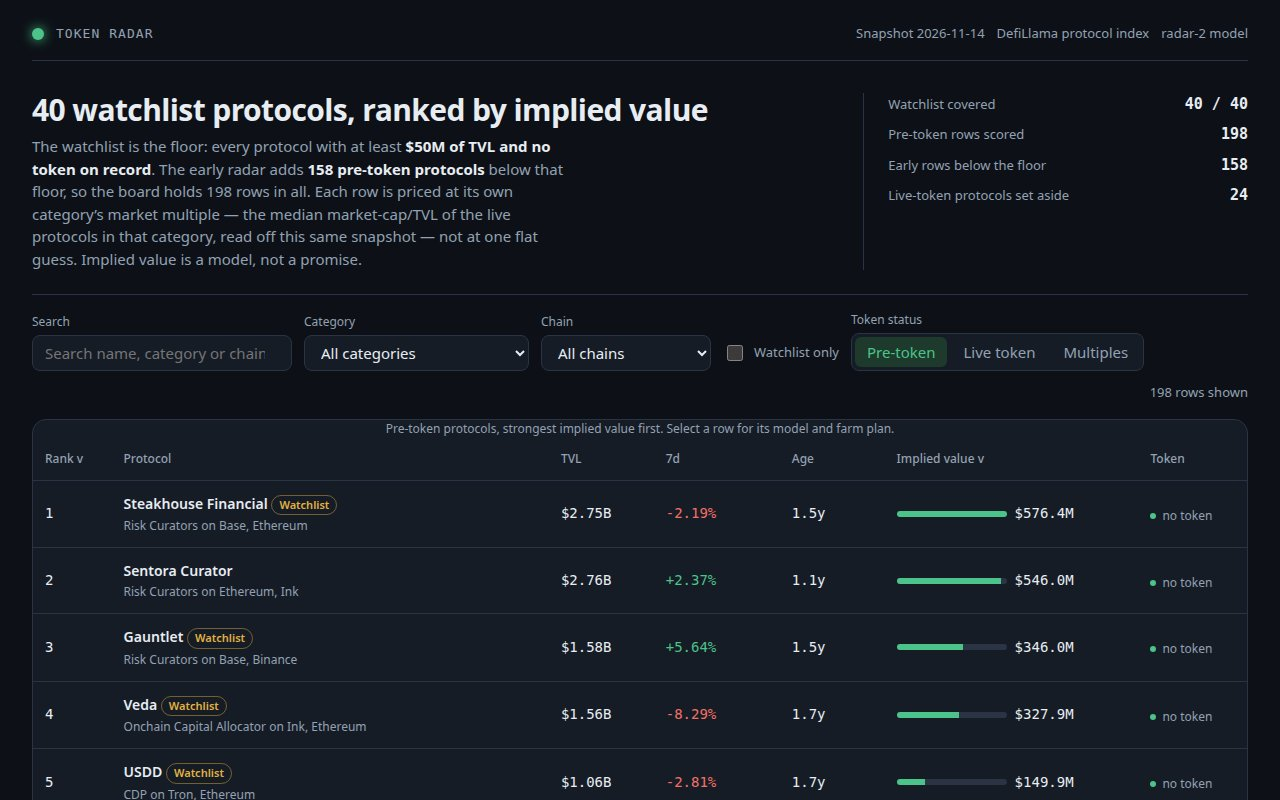
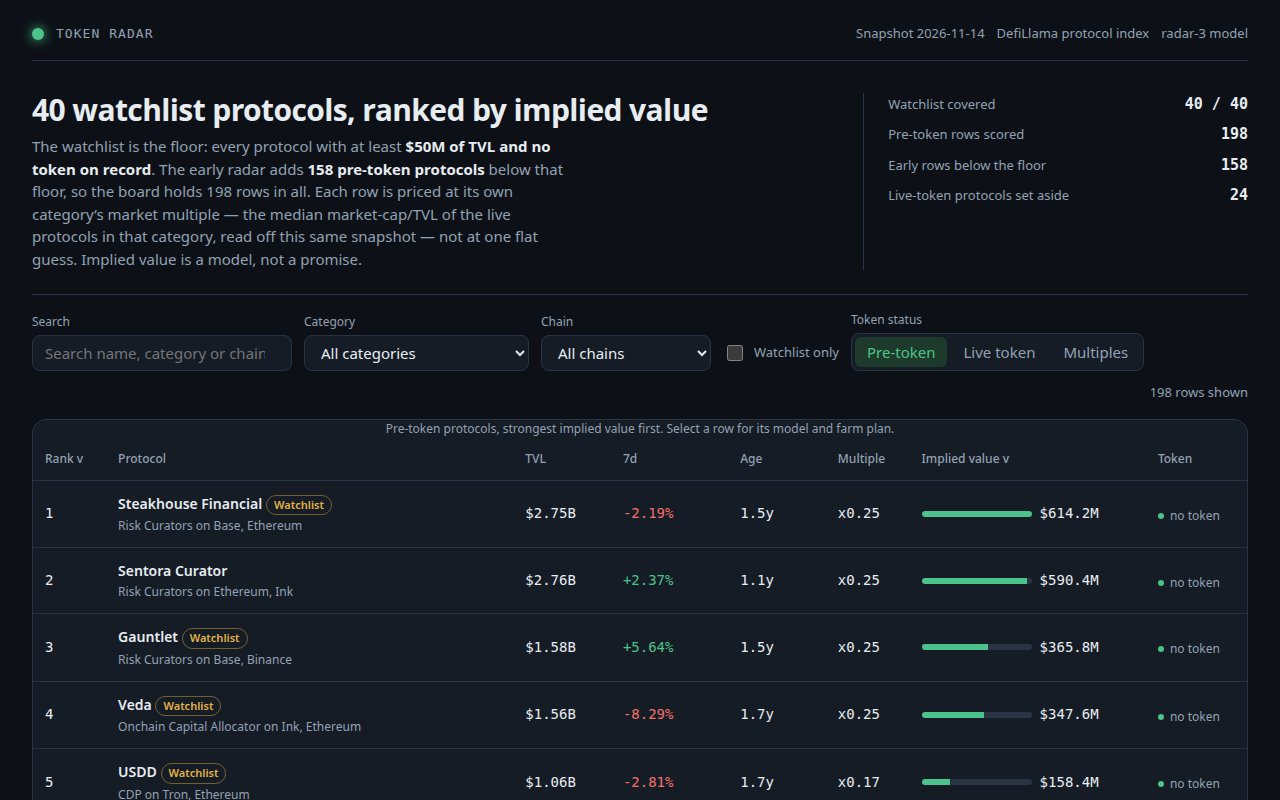
Token Radar (radar-3): damped growth/age, per-protocol watch-out farm step, multiple column + why-this-rank

diff --git a/lib/model.ts b/lib/model.ts
@@ -1,4 +1,4 @@
-// Token Radar's model, radar-2: one sealed snapshot in, one ranked board out.
+// Token Radar's model, radar-3: one sealed snapshot in, one ranked board out.
 //
 // The board ranks every pre-token protocol the snapshot can rank: the whole 40-protocol
 // watchlist plus every other pre-token protocol that passes the watchlist's own rule.
@@ -19,18 +19,29 @@
 // the median live bridge at 0.56x. So each row is scored at its own category's multiple,
 // taken from the live protocols that already trade in that category.
 //
+// radar-3 damps the two noisiest inputs. A single week's TVL move is often one wallet,
+// not a trend, so seven-day growth is clamped to -50..+80 per cent and weighted at 0.5:
+// the growth multiplier now moves implied value by 0.75x to 1.40x, never nearly double.
+// Age is the weakest signal of the four — a protocol that has run three years with no
+// token is established, but no nearer a launch than a younger one — so maturity moves
+// implied value by 0.70x to 1.00x. TVL at the category multiple does the pricing; growth
+// and age only tilt it.
+//
 //   catMultiple = median(mcap_usd / tvl_usd) over live protocols of the same category
 //                 (at least 3 of them, else the global median over all live protocols),
 //                 clamped to [0.05, 1.50]
-//   growth      = clamp(change_7d, -50, 150) per cent; null growth counts as 0
-//   growthMult  = 1 + (growth / 100) x 0.6
-//   maturity    = 0.6 + min(age_days, 1095) / 1095 x 0.4   (age unknown: 365 days)
+//   growth      = clamp(change_7d, -50, 80) per cent; null growth counts as 0
+//   growthMult  = 1 + (growth / 100) x 0.5
+//   maturity    = 0.7 + min(age_days, 1095) / 1095 x 0.3   (age unknown: 365 days)
 //   breadth     = 1 + 0.02 x min(chains - 1, 4)            (multi-chain reach, at most +8%)
 //   implied     = max(1, round(tvl_usd x catMultiple x growthMult x maturity x breadth))
 //
 // Farm plans are derived the same way, from the protocol's own record: its category picks
 // the action, its first chain picks where it happens and what the gas costs, its TVL picks
-// the capital, its age picks the hold. Every step states what it costs and how long it takes.
+// the capital, its age picks the hold. One step is new in radar-3: a watch-out read off
+// the same figures — a falling week, a hot week, a long run with no token, TVL spread
+// over many chains, or a multiple borrowed from the global median — so no two plans are
+// the same where the figures differ. Every step states what it costs and how long it takes.
 
 /** One protocol entry of the sealed snapshot: exactly its ten fields. */
 export interface SnapshotProtocol {
@@ -72,11 +83,11 @@ export interface ModelConstants {
 }
 
 export const MODEL: ModelConstants = {
-  growth_weight: 0.6,
+  growth_weight: 0.5,
   growth_floor: -50,
-  growth_cap: 150,
-  maturity_floor: 0.6,
-  maturity_range: 0.4,
+  growth_cap: 80,
+  maturity_floor: 0.7,
+  maturity_range: 0.3,
   maturity_days: 1095,
   unknown_age_days: 365,
   multiple_floor: 0.05,
@@ -87,7 +98,7 @@ export const MODEL: ModelConstants = {
 };
 
 /** The model's version label: the dashboard names it. */
-export const MODEL_VERSION = 'radar-2';
+export const MODEL_VERSION = 'radar-3';
 
 /** How many live-token protocols the Live view carries, by market cap. */
 export const LIVE_ROWS = 24;
@@ -144,6 +155,7 @@ export interface RadarRow {
   implied_value_usd: number;
   watchlist: boolean;
   category_multiple: number;
+  category_live_n: number;
   growth_multiplier: number;
   maturity_multiplier: number;
   breadth_multiplier: number;
@@ -379,7 +391,7 @@ export function buildBoard(
       breadth_multiplier: round4(s.breadthMult),
       age_days: s.age,
     },
-    farm_steps: farmSteps(s.p, s.age).map(stepText),
+    farm_steps: farmSteps(s.p, s.age, s.growthPct, s.liveN < model.multiple_min_live).map(stepText),
   }));
   return { board, multiples: table, globalMultiple: global };
 }
@@ -458,11 +470,47 @@ function weeklyFor(p: SnapshotProtocol): string {
 }
 
 /**
- * A protocol's farm plan: six steps, each an action with a cost and a time. The plan is
- * derived from the protocol's own record (category, chains, TVL, age), never from a
- * hand-written list of names.
+ * The watch-out: one caution read off the protocol's own figures, so a plan is never
+ * the same where the figures differ. The strongest signal wins: a falling week, a hot
+ * week, a long run with no token, TVL spread over many chains, or a multiple borrowed
+ * from the global median because its category has too few live protocols to price it.
  */
-export function farmSteps(p: SnapshotProtocol, age: number | null): FarmStep[] {
+export function watchOut(
+  p: SnapshotProtocol,
+  age: number | null,
+  growthPct: number,
+  fromGlobal: boolean,
+): string {
+  if (growthPct <= -10) {
+    return `TVL fell ${Math.abs(growthPct).toFixed(1)}% in the last week — check whether one wallet left before you add capital; a falling base earns fewer points per dollar.`;
+  }
+  if (growthPct >= 50) {
+    return `TVL jumped ${growthPct.toFixed(1)}% in one week — confirm the deposits stick for a second week before sizing up; one hot week is often one wallet.`;
+  }
+  if (age !== null && age >= 1095) {
+    return `It has run ${Math.floor(age / 365)} years with no token on record — a launch is less certain than for a younger protocol, so keep this farm small.`;
+  }
+  if (p.chains.length >= 4) {
+    return `TVL sits on ${p.chains.length} chains — farm on ${chainOf(p)}, where the deepest pool is, and skip the thin ones.`;
+  }
+  if (fromGlobal) {
+    return `Its category has fewer than 3 live protocols, so its multiple is the global median — treat the implied value as a rough guide, not a price.`;
+  }
+  return `Re-check the 7-day growth before each weekly action: a turn in the trend is the first sign the farm is cooling.`;
+}
+
+/**
+ * A protocol's farm plan: seven steps, each an action with a cost and a time. The plan is
+ * derived from the protocol's own record (category, chains, TVL, age, growth, and whether
+ * its multiple is its category's own or the global median), never from a hand-written
+ * list of names. The DefiLlama page in step six follows from the slug alone.
+ */
+export function farmSteps(
+  p: SnapshotProtocol,
+  age: number | null,
+  growthPct = 0,
+  fromGlobal = false,
+): FarmStep[] {
   const chain = chainOf(p);
   const capital = capitalFor(p);
   const hold = holdDaysFor(age);
@@ -491,7 +539,12 @@ export function farmSteps(p: SnapshotProtocol, age: number | null): FarmStep[] {
       time: `${hold} days`,
     },
     {
-      text: `Before you withdraw, open the protocol's own points or rewards page and claim only from the link it publishes.`,
+      text: watchOut(p, age, growthPct, fromGlobal),
+      cost: 'nothing to check, and it decides the size',
+      time: '10 minutes',
+    },
+    {
+      text: `Before you withdraw, open the protocol's own points or rewards page — start from its DefiLlama page at defillama.com/protocol/${p.slug} — and claim only from a link the protocol itself publishes.`,
       cost: 'no fee to check, and never pay to claim',
       time: '10 minutes',
     },
@@ -536,6 +589,7 @@ export function radarRow(row: BoardRow): RadarRow {
     implied_value_usd: row.implied_value_usd,
     watchlist: row.watchlist,
     category_multiple: row.model.category_multiple_raw,
+    category_live_n: row.model.category_live_n,
     growth_multiplier: row.model.growth_multiplier,
     maturity_multiplier: row.model.maturity_multiplier,
     breadth_multiplier: row.model.breadth_multiplier,

diff --git a/dashboard/app.js b/dashboard/app.js
@@ -1,4 +1,4 @@
-// Token Radar's dashboard (radar-2). It reads window.RADAR (written beside dashboard/
+// Token Radar's dashboard (radar-3). It reads window.RADAR (written beside dashboard/
 // by main.ts) and renders the ranked board, a filterable table, a per-protocol detail
 // view with the model's own inputs and the protocol's farm plan, a live-token view, and
 // the table of category multiples the model is priced from. No network: every byte it
@@ -104,17 +104,29 @@
     if (s.length < 20) s = s + " Hold the position and check the protocol's own page.";
     return s;
   }
+  function watchOut(p, growthPct, fromGlobal) {
+    var age = p.age_days === null || p.age_days === undefined ? null : p.age_days;
+    if (growthPct <= -10) return 'TVL fell ' + Math.abs(growthPct).toFixed(1) + '% in the last week — check whether one wallet left before you add capital; a falling base earns fewer points per dollar.';
+    if (growthPct >= 50) return 'TVL jumped ' + growthPct.toFixed(1) + '% in one week — confirm the deposits stick for a second week before sizing up; one hot week is often one wallet.';
+    if (age !== null && age >= 1095) return 'It has run ' + Math.floor(age / 365) + ' years with no token on record — a launch is less certain than for a younger protocol, so keep this farm small.';
+    if (p.chains && p.chains.length >= 4) return 'TVL sits on ' + p.chains.length + ' chains — farm on ' + chainOf(p) + ', where the deepest pool is, and skip the thin ones.';
+    if (fromGlobal) return 'Its category has fewer than 3 live protocols, so its multiple is the global median — treat the implied value as a rough guide, not a price.';
+    return 'Re-check the 7-day growth before each weekly action: a turn in the trend is the first sign the farm is cooling.';
+  }
   function farmSteps(p) {
     var chain = chainOf(p);
     var capital = capitalFor(p);
     var hold = holdDaysFor(p.age_days);
     var gas = gasFor(chain);
+    var growthPct = Math.min(DATA.model.growth_cap, Math.max(DATA.model.growth_floor, p.change_7d === null || p.change_7d === undefined ? 0 : p.change_7d));
+    var fromGlobal = (p.category_live_n === null || p.category_live_n === undefined ? 0 : p.category_live_n) < DATA.model.multiple_min_live;
     return [
       { text: 'Use a fresh wallet that holds only the funds you plan to farm, and keep its seed phrase offline.', cost: 'under $3 of gas for the first transaction', time: '5 minutes' },
       { text: actionFor(p, capital, chain), cost: '$' + capital + ' of capital and ' + gas.setup, time: '15 minutes to set up' },
       { text: 'Make one qualifying action each week, such as ' + weeklyFor(p) + '.', cost: gas.weekly, time: '10 minutes a week' },
       { text: 'Hold the position for at least ' + hold + ' days so the activity is counted in more than one snapshot.', cost: 'the $' + capital + ' stays in the position', time: hold + ' days' },
-      { text: "Before you withdraw, open the protocol's own points or rewards page and claim only from the link it publishes.", cost: 'no fee to check, and never pay to claim', time: '10 minutes' },
+      { text: watchOut(p, growthPct, fromGlobal), cost: 'nothing to check, and it decides the size', time: '10 minutes' },
+      { text: "Before you withdraw, open the protocol's own points or rewards page — start from its DefiLlama page at defillama.com/protocol/" + p.slug + ' — and claim only from a link the protocol itself publishes.', cost: 'no fee to check, and never pay to claim', time: '10 minutes' },
       { text: 'Write the wallet, the dates and every transaction in a farm log so you can repeat the position or unwind it.', cost: 'nothing but the log', time: '5 minutes' }
     ].map(stepText);
   }
@@ -162,6 +174,7 @@
       else if (key === 'tvl') { av = a.tvl_usd; bv = b.tvl_usd; }
       else if (key === 'growth') { av = a.change_7d === null ? -Infinity : a.change_7d; bv = b.change_7d === null ? -Infinity : b.change_7d; }
       else if (key === 'age') { av = a.age_days === null ? Infinity : a.age_days; bv = b.age_days === null ? Infinity : b.age_days; }
+      else if (key === 'multiple') { av = a.category_multiple; bv = b.category_multiple; }
       else { av = a.implied_value_usd; bv = b.implied_value_usd; }
       if (av < bv) return -state.dir;
       if (av > bv) return state.dir;
@@ -236,6 +249,7 @@
         '<td class="num">' + fmtUsd(r.tvl_usd) + '</td>' +
         '<td class="num ' + growthClass + '">' + growth + '</td>' +
         '<td class="num">' + fmtAge(r.age_days) + '</td>' +
+        '<td class="num">' + fmtMult(r.category_multiple) + '</td>' +
         '<td><div class="implied"><div class="bar" aria-hidden="true"><i style="width:' + Math.max(3, Math.round((r.implied_value_usd / max) * 100)) + '%"></i></div>' +
         '<span class="num">' + fmtUsd(r.implied_value_usd) + '</span></div></td>' +
         '<td><span class="status">no token</span></td></tr>';
@@ -244,7 +258,7 @@
       '<caption class="sub">Pre-token protocols, strongest implied value first. Select a row for its model and farm plan.</caption>' +
       '<thead><tr><th scope="col">' + sortBtn('implied', 'Rank') + '</th><th scope="col">' + sortBtn('name', 'Protocol') + '</th>' +
       '<th scope="col">' + sortBtn('tvl', 'TVL') + '</th><th scope="col">' + sortBtn('growth', '7d') + '</th>' +
-      '<th scope="col">' + sortBtn('age', 'Age') + '</th><th scope="col">' + sortBtn('implied', 'Implied value') + '</th><th scope="col">Token</th></tr></thead>' +
+      '<th scope="col">' + sortBtn('age', 'Age') + '</th><th scope="col">' + sortBtn('multiple', 'Multiple') + '</th><th scope="col">' + sortBtn('implied', 'Implied value') + '</th><th scope="col">Token</th></tr></thead>' +
       '<tbody>' + rows + '</tbody></table></div></div>';
   }
 
@@ -324,7 +338,8 @@
       '<div><span>Maturity multiplier</span><b class="num">' + fmtMult(row.maturity_multiplier) + '</b></div>' +
       '<div><span>Chain breadth (' + (row.chains || []).length + ' chains)</span><b class="num">' + fmtMult(row.breadth_multiplier) + '</b></div>' +
       '<div class="total"><span>Implied value</span><b class="num">' + fmtUsd(row.implied_value_usd) + '</b></div>' +
-      '</div><p class="note">Model ' + esc(DATA.model_version) + ': the same function scores every protocol. The page recomputes this row as ' + fmtUsd(recomputed) +
+      '</div><p class="note">Why rank ' + row.rank + ': ' + fmtUsd(row.tvl_usd) + ' of TVL at the ' + esc(row.category || 'Other') + ' multiple of ' + fmtMult(row.category_multiple) + ', with ' + fmtPct(row.change_7d) + ' seven-day growth and ' + fmtAge(row.age_days) + ' with no token on record.</p>' +
+      '<p class="note">Model ' + esc(DATA.model_version) + ': the same function scores every protocol. The page recomputes this row as ' + fmtUsd(recomputed) +
       (match ? ', the same number board.json carries.' : ', which differs from the board: the data would be stale.') +
       ' This is an estimate, not a price. The protocol records no token in the snapshot; that is what the record says, not proof it has none.</p></section>' +
       '<section class="detail-section"><h3>Farm plan</h3><ol class="steps">' + stepsHtml + '</ol>' +

diff --git a/main.ts b/main.ts
@@ -1,7 +1,7 @@
 // A working token-radar-01 entry (Node 22, standard library only).
 //
 // The program reads the sealed snapshot from /input/snapshot.json (or --input <file|dir>),
-// scores every rankable pre-token protocol with the radar-2 model in lib/model.ts, writes
+// scores every rankable pre-token protocol with the radar-3 model in lib/model.ts, writes
 // the ranked board to /output/board.json, and copies this repository's dashboard/ and
 // screenshots/ to /output. Last, it writes /output/dossier.json, the summary the judge
 // reads, with the vendored make.fun library.

diff --git a/README.md b/README.md
@@ -1,22 +1,34 @@
 # Token Radar — pre-token protocols ranked by implied value
 
+[![make.fun · token-radar-01](https://make.fun/badge/token-radar-01.svg)](https://make.fun/bounty/token-radar-01?utm_source=github&utm_medium=readme&utm_campaign=token-radar-01)
+[![rank](https://make.fun/badge/token-radar-01/ternakdana-52/token-radar-01-bot/rank.svg)](https://make.fun/bounty/token-radar-01/leaderboard?utm_source=github&utm_medium=readme&utm_campaign=token-radar-01)
+[![reward](https://make.fun/badge/token-radar-01/ternakdana-52/token-radar-01-bot/reward.svg)](https://make.fun/bounty/token-radar-01?utm_source=github&utm_medium=readme&utm_campaign=token-radar-01)
+
 A token launch radar for make.fun's `token-radar-01` bounty. It reads the sealed
 DefiLlama snapshot (`/input/snapshot.json`), scores every pre-token protocol with the
-radar-2 model, and hands in a dashboard: a ranked board, a detail view per protocol
-with its model breakdown and farm plan, a live-token view, and the table of category
-multiples the model is priced from.
+radar-3 model, and hands in a dashboard: a ranked board with each row's category
+multiple on show, a detail view per protocol with its model breakdown, a why-this-rank
+line and farm plan, a live-token view, and the table of category multiples the model
+is priced from.
 
-## The model (radar-2)
+## The model (radar-3)
 
 Implied value follows only from the snapshot's own figures, and no protocol name is
 ever special-cased:
 
 ```
 implied = round( tvl_usd x category multiple
-                 x (1 + clamp(change_7d, -50, 150) / 100 x 0.6)
-                 x (0.6 + min(age_days, 1095) / 1095 x 0.4)
+                 x (1 + clamp(change_7d, -50, 80) / 100 x 0.5)
+                 x (0.7 + min(age_days, 1095) / 1095 x 0.3)
                  x (1 + 0.02 x min(chains - 1, 4)) )
 ```
+
+radar-3 damps the two noisiest inputs. A single week's TVL move is often one wallet,
+not a trend, so seven-day growth is clamped to -50..+80 per cent and weighted at 0.5:
+the growth multiplier moves implied value by 0.75x to 1.40x, never nearly double. Age
+is the weakest signal — a protocol that has run three years with no token is
+established but no nearer a launch — so maturity moves implied value by 0.70x to
+1.00x. TVL at the category multiple does the pricing; growth and age only tilt it.
 
 The **category multiple** is the market's own FDV/TVL for that category: the median
 market-cap/TVL of the live-token protocols in the same category, read off this same
@@ -34,7 +46,11 @@ the Live view with their market caps — facts, not a model.
 
 Farm plans are derived per protocol from its category (the action), its first chain
 (the gas: Ethereum is dear, the fast chains near free), its TVL (the capital) and
-its age (the hold). Every step states what it costs and how long it takes.
+its age (the hold). One step is a watch-out read off the same figures — a falling
+week, a hot week, a long run with no token, TVL spread over many chains, or a
+multiple borrowed from the global median — and the claim step starts from the
+protocol's own DefiLlama page, `defillama.com/protocol/<slug>`. Every step states
+what it costs and how long it takes.
 
 ## Run it
 
@@ -49,7 +65,7 @@ and `out/dossier.json`. Open `out/dashboard/index.html` in a browser (it reads t
 ## Files
 
 - `main.ts` — the hand-in program: snapshot in, board + dashboard + dossier out.
-- `lib/model.ts` — the radar-2 model, the farm plans, and the board validation.
+- `lib/model.ts` — the radar-3 model, the farm plans, and the board validation.
 - `vendor/makefun-board.ts` — make.fun's dossier library, copied unchanged.
 - `dashboard/` — the static page: `index.html`, `app.css`, `app.js`.
 - `screenshots/` — the board, a protocol's detail view, and a filtered view.
